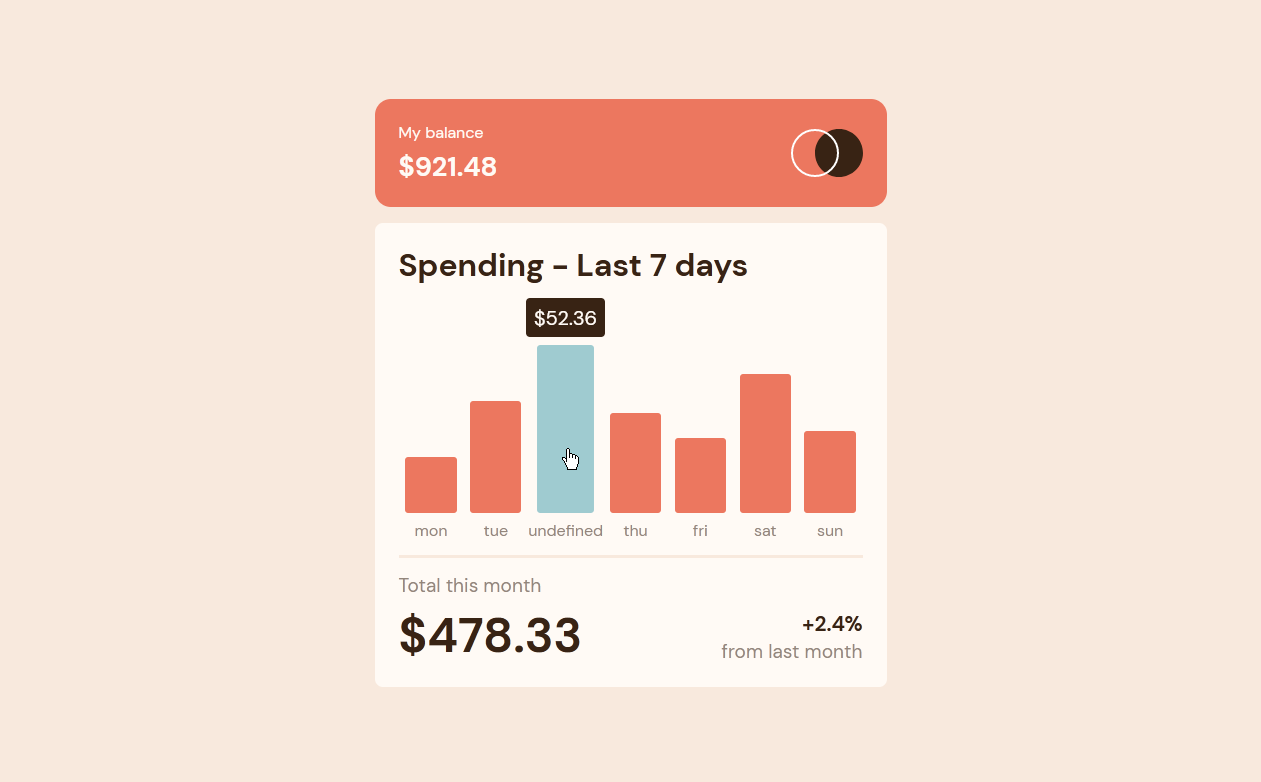
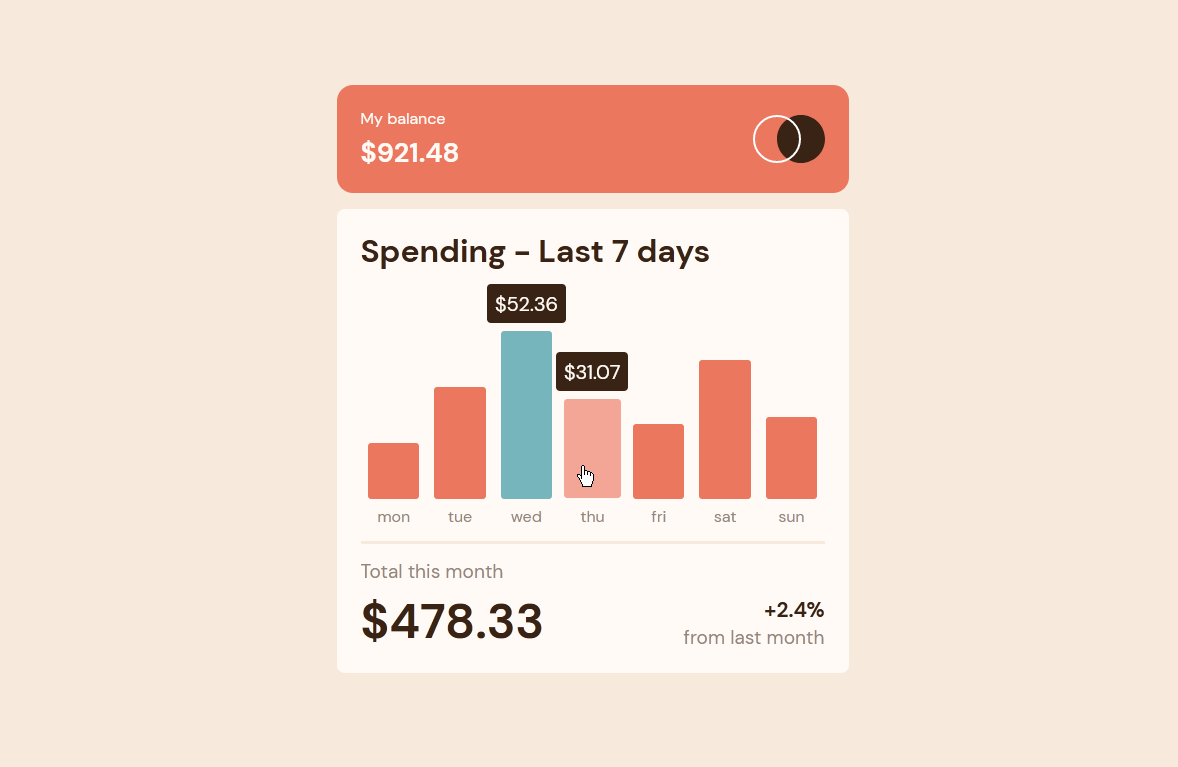
update readme

diff --git a/js/main.js b/js/main.js
@@ -3,51 +3,6 @@ document.addEventListener("DOMContentLoaded", async () => {
 
 	const data = await getData();
 
-	const datass = [
-		{
-			id: 1,
-			value: 3,
-			text: "10.23",
-			label: "mon",
-		},
-		{
-			id: 2,
-			value: 6,
-			text: "40.11",
-			label: "tue",
-		},
-		{
-			id: 3,
-			value: 10,
-			text: "52.36",
-			label: "wed",
-		},
-		{
-			id: 4,
-			value: 5,
-			text: "31.07",
-			label: "thu",
-		},
-		{
-			id: 5,
-			value: 4,
-			text: "21.12",
-			label: "fri",
-		},
-		{
-			id: 6,
-			value: 7,
-			text: "45.36",
-			label: "sat",
-		},
-		{
-			id: 7,
-			value: 5.5,
-			text: "34.23",
-			label: "sun",
-		},
-	];
-
 	const datas = data.map((item) => item.amount);
 	const maxValue = Math.max(...datas);
 	var width = window.innerWidth > 0 ? window.innerWidth : screen.width;
@@ -63,7 +18,7 @@ document.addEventListener("DOMContentLoaded", async () => {
             <div class="bar max" style="height: calc(${
 							item.amount / 10
 						}rem*2);"></div>
-            <p>${item.label}</p>`;
+            <p>${item.day}</p>`;
 		} else {
 			barWrapper.innerHTML = `
             <span class="bounceInUp">$${item.amount}</span>

diff --git a/README.md b/README.md
@@ -49,8 +49,8 @@ Want some support on the challenge? [Join our Slack community](https://www.front
 
 ### Links
 
-- Source Code URL: [Source Github](https://github.com/lenez12/Single-price-grid-component.git)
-- Live Site URL: [Demo Live](https://lenez-single-price.netlify.app/)
+- Source Code URL: [Source Github](https://github.com/lenez12/expenses-chart-component-main.git)
+- Live Site URL: [Demo Live](https://lenez-chart-expenses.netlify.app/)
 
 ## My process
 
@@ -60,6 +60,8 @@ Want some support on the challenge? [Join our Slack community](https://www.front
 - CSS custom properties
 - Flexbox
 - Grid CSS
+- SCSS
+- CSS5 Animation
 
 ### What I learned
 
@@ -67,19 +69,23 @@ what I learned in making this challenge is:
 
 1. using grid css for layouting content
 2. i user media Query to build responsive for mobile combinating with grid css
+3. using animation
+4. get data using fetch
+5. manipulate dom
 
 ### Continued development
 
 1. In the future I will make a good css class naming name
 2. add transition and animation on content when appears
+3. semantic tag
 
 ### Useful resources
 
 - [CSS Grid Layout](https://www.w3schools.com/css/css_grid.asp)
-- [Reset CSS](https://piccalil.li/blog/a-modern-css-reset/)
+- [Reset CSS](https://nicolas-cusan.github.io/destyle.css/)
 
 ## Author
 
-- Frontend Mentor - [@Lenez](https://www.frontendmentor.io/profile/lenez)
+- Frontend Mentor - [@Lenez](https://www.frontendmentor.io/profile/lenez12)
 - Twitter - [@prak_tech](https://www.twitter.com/prak_tech)
 
